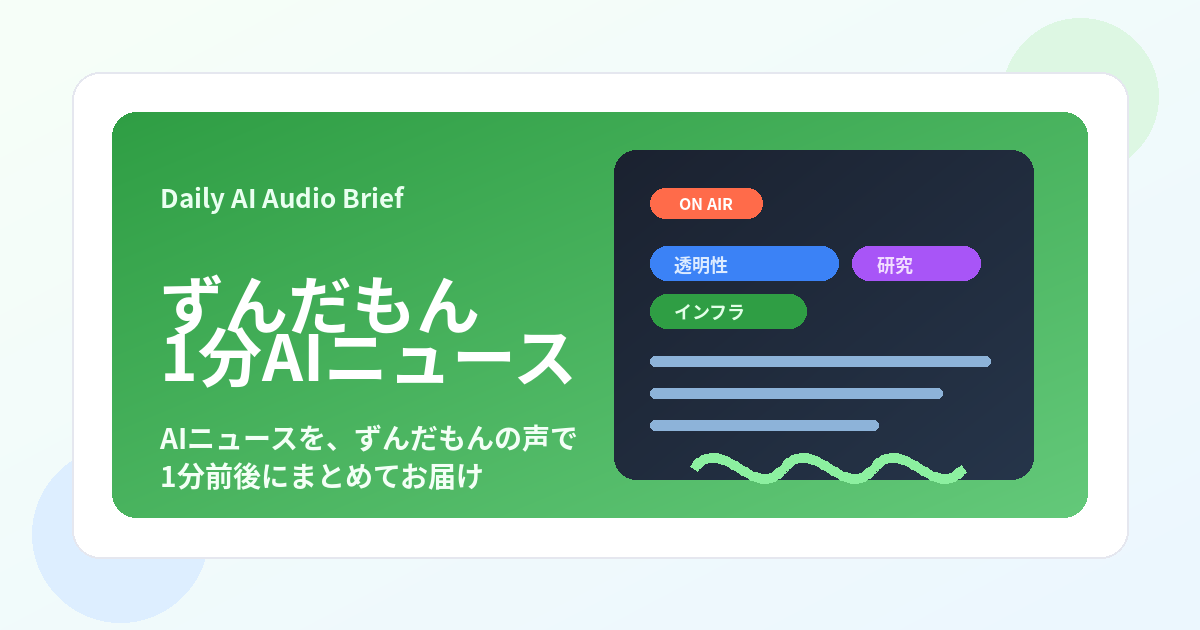
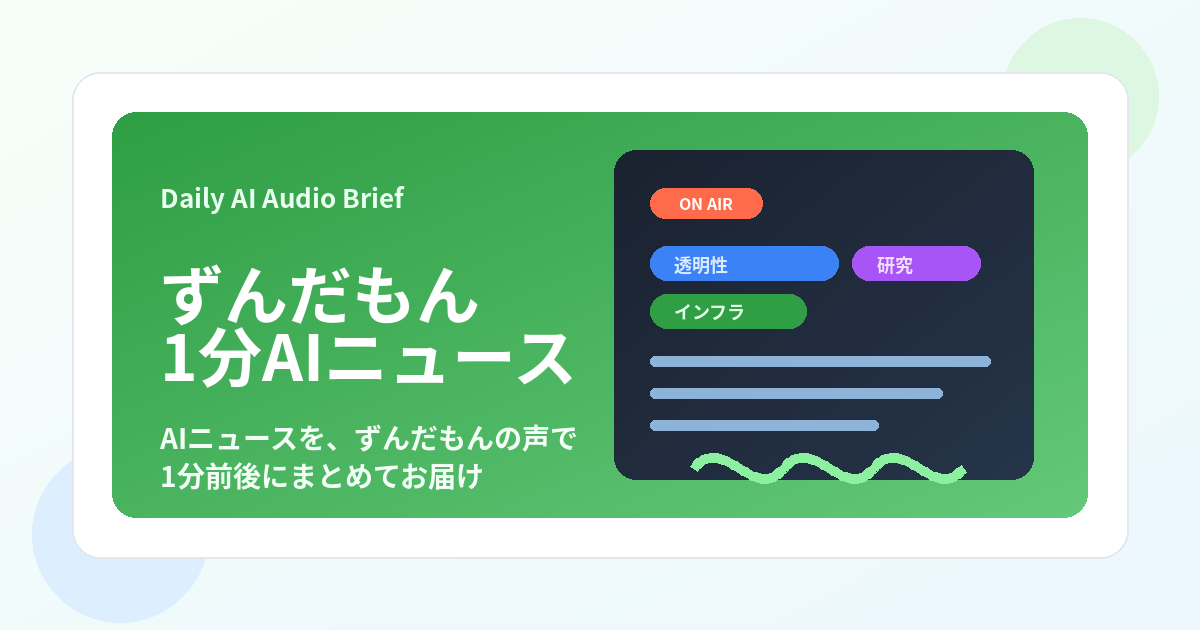
Raise top OGP main title

Changed region(s): [[0.1233, 0.4222, 0.4008, 0.5429]]

diff --git a/scripts/render_ogp.py b/scripts/render_ogp.py
@@ -36,7 +36,7 @@ WAVE_SEGMENTS = [
 ]
 DEFAULT_TEXT_NODES = [
     ('Daily AI Audio Brief', (160, 186), 26, True, (233, 255, 240, 255), 'la'),
-    ('ずんだもん', (160, 274), 64, True, (255, 255, 255, 255), 'la'),
+    ('ずんだもん', (160, 264), 64, True, (255, 255, 255, 255), 'la'),
     ('1分AIニュース', (160, 327), 64, True, (255, 255, 255, 255), 'la'),
     ('AIニュースを、ずんだもんの声で', (160, 424), 28, True, (243, 255, 246, 255), 'la'),
     ('1分前後にまとめてお届け', (160, 462), 28, True, (243, 255, 246, 255), 'la'),
